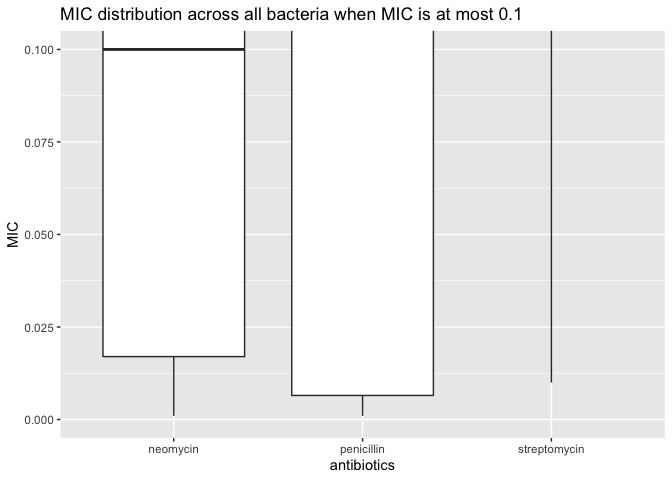
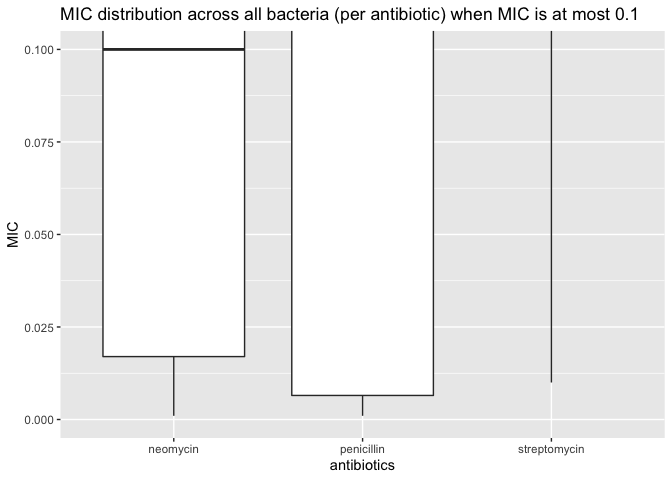
Update title copy of q1 "zoomed in" plot

Changed region(s): [[0.5, 0.0, 0.9375, 0.0625]]

diff --git a/challenges/c05-antibiotics-assignment.md b/challenges/c05-antibiotics-assignment.md
@@ -178,7 +178,7 @@ df_antibiotics %>%
   geom_boxplot(mapping = aes(x = "penicillin", y = penicillin)) +
   geom_boxplot(mapping = aes(x = "streptomycin", y = streptomycin)) +
   geom_boxplot(mapping = aes(x = "neomycin", y = neomycin)) +
-  labs(title = "MIC distribution across all bacteria when MIC is at most 0.1", y = "MIC", x = "antibiotics") +
+  labs(title = "MIC distribution across all bacteria (per antibiotic) when MIC is at most 0.1", y = "MIC", x = "antibiotics") +
   coord_cartesian(ylim = c(0, 0.1))
 ```
 
